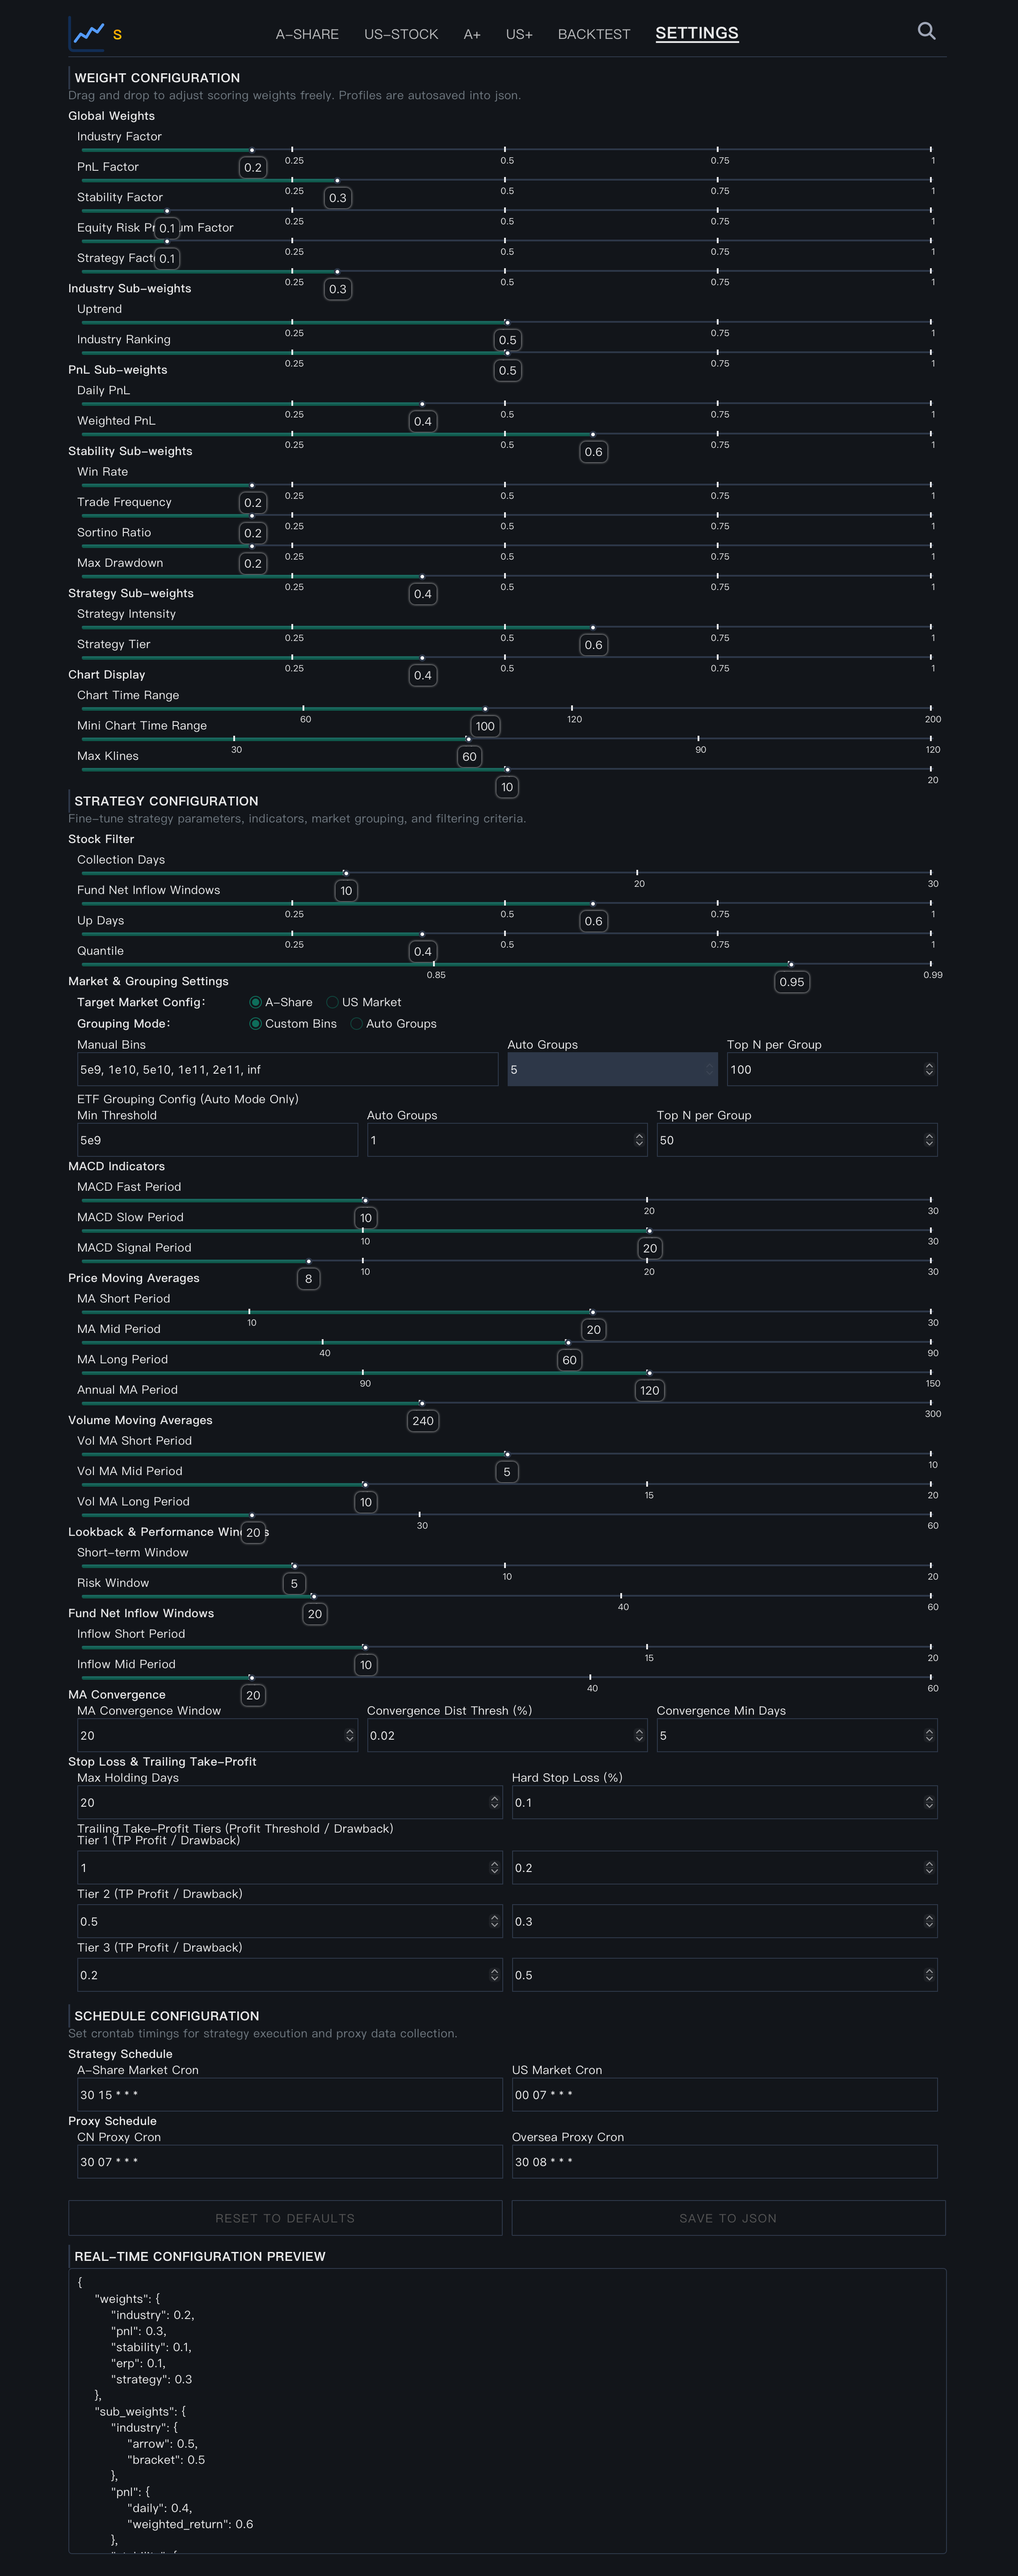
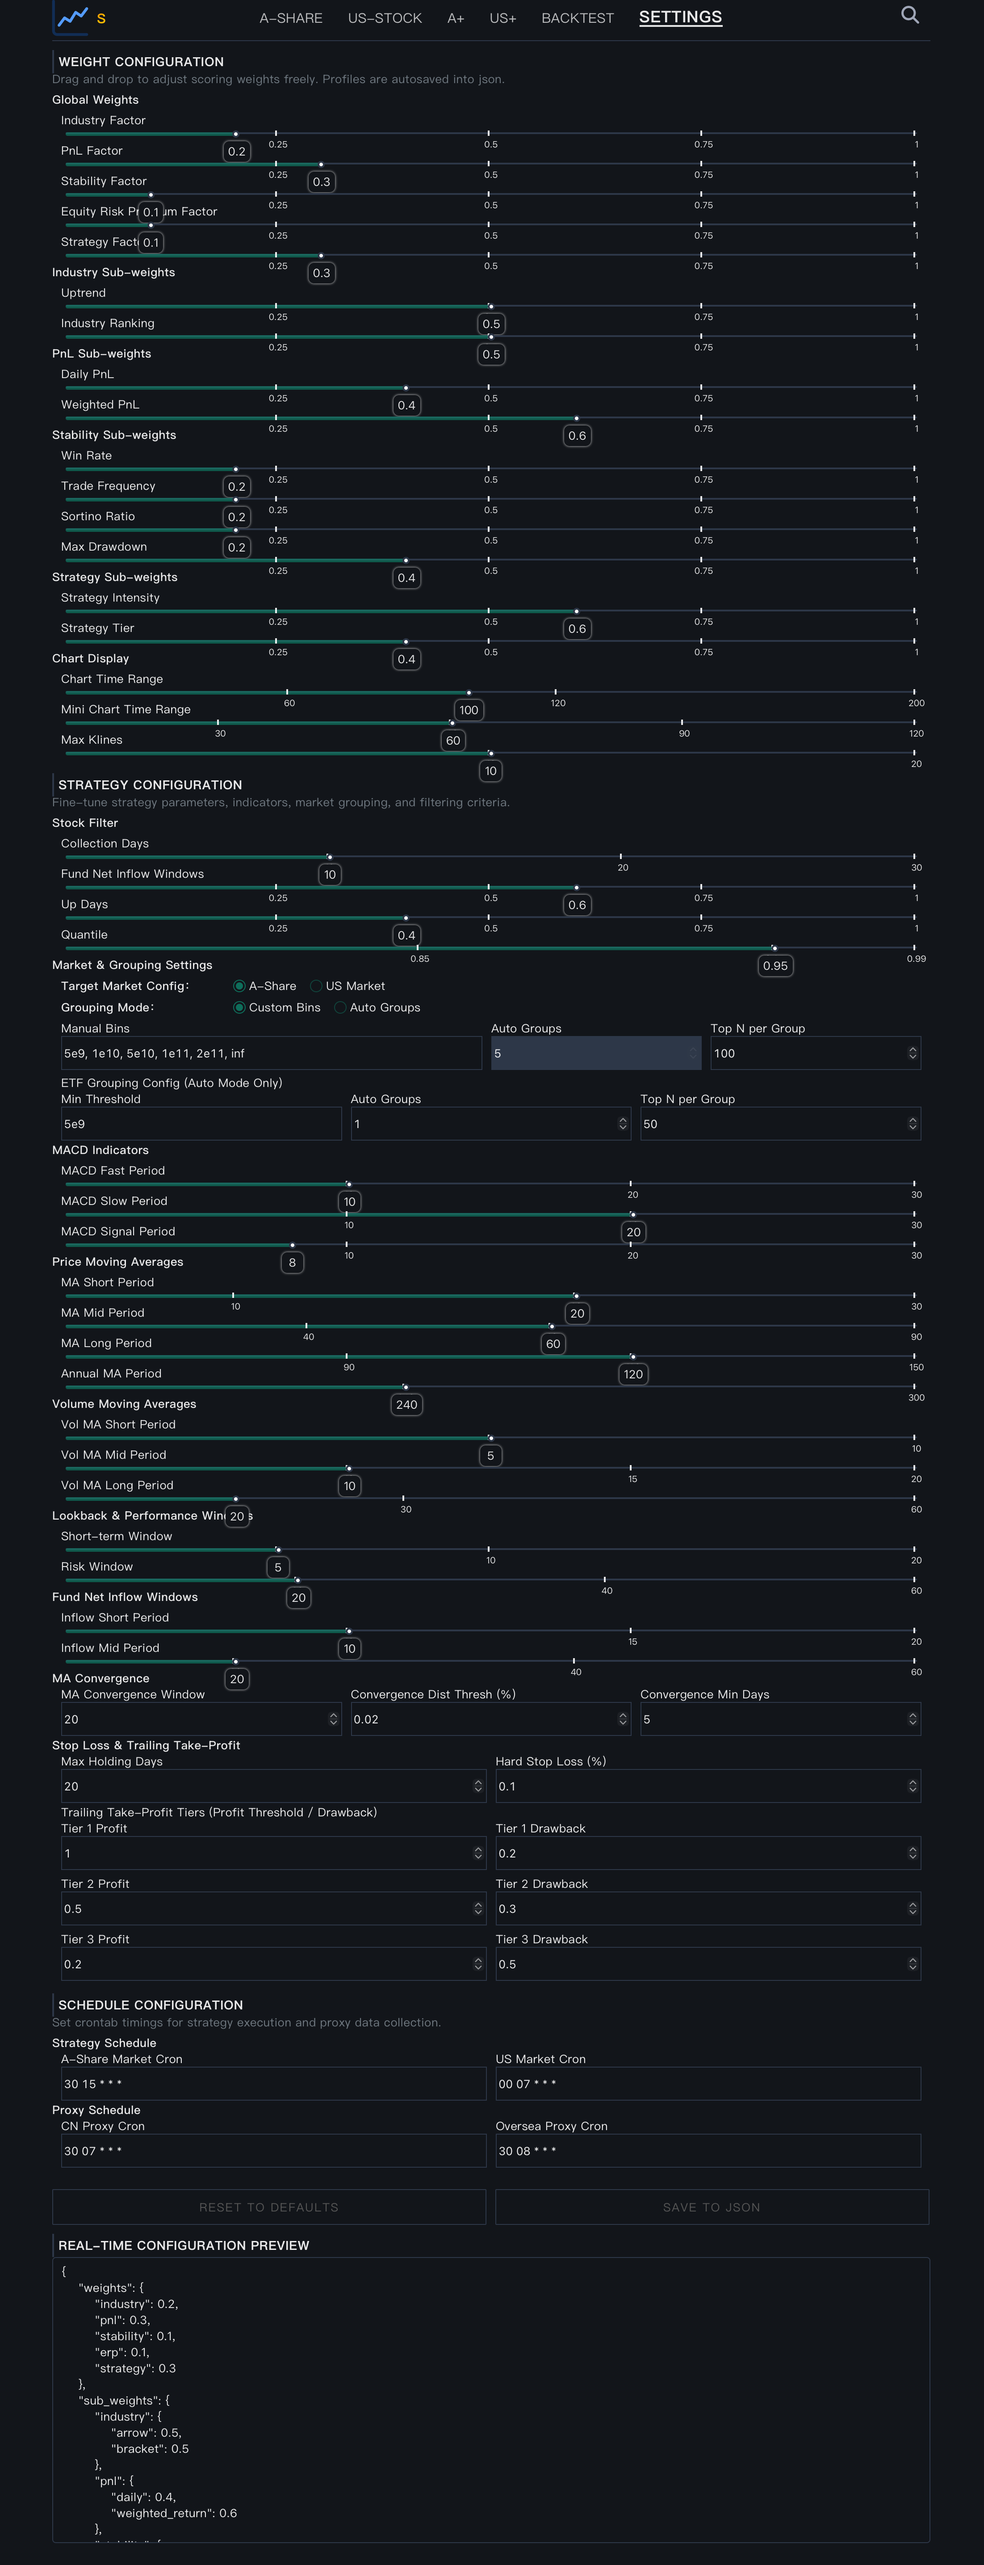
update

diff --git a/pub_finance/finance/dashreport/pages/settings.py b/pub_finance/finance/dashreport/pages/settings.py
@@ -781,7 +781,7 @@ def build_grouping_settings_card(cfg: dict) -> dbc.Card:
                             id="grp_top_n",
                             type="number",
                             min=1,
-                            max=100,
+                            max=500,
                             step=1,
                             value=grp_cfg.get("top_n_per_group", 10),
                             className="custom-grp-input",
@@ -846,7 +846,7 @@ def build_grouping_settings_card(cfg: dict) -> dbc.Card:
                                     id="etf_top_n",
                                     type="number",
                                     min=1,
-                                    max=200,
+                                    max=500,
                                     step=1,
                                     value=etf_cfg.get("top_n_per_group", 50),
                                     className="custom-grp-input",
@@ -996,7 +996,7 @@ def build_ma_convergence_card(cfg: dict) -> dbc.Card:
                         id="input_bt_ma_convergence_window",
                         type="number",
                         min=5,
-                        max=90,
+                        max=120,
                         step=1,
                         value=sqz_cfg.get("ma_convergence_window", 20),
                         className="custom-grp-input",
@@ -1114,7 +1114,7 @@ def build_exit_rules_card(cfg: dict) -> dbc.Card:
             ],
             className="grp-inputs-row mb-3",
         ),
-        # 2. 阶梯移动止盈 - 完全对齐上方 grp-inputs-row 结构，实现平分 50% 并排
+        # 2. 阶梯移动止盈 - 细化 Label，使 Profit 与 Drawback 分别对齐各自的输入框
         html.Div(
             [
                 html.Div(
@@ -1124,125 +1124,146 @@ def build_exit_rules_card(cfg: dict) -> dbc.Card:
                 # Tier 1
                 html.Div(
                     [
-                        html.Label(
-                            "Tier 1 (TP Profit / Drawback)",
-                            className="mb-1 l2_label text-truncate w-100",
+                        html.Div(
+                            [
+                                html.Label(
+                                    "Tier 1 Profit",
+                                    className="mb-1 l2_label text-truncate",
+                                ),
+                                dbc.Input(
+                                    id="input_bt_trailing_tp_tier_1_threshold",
+                                    type="number",
+                                    value=exit_cfg.get(
+                                        "trailing_tp_tier_1_threshold", 1.0
+                                    ),
+                                    min=0,
+                                    max=5,
+                                    step=0.05,
+                                    placeholder="Profit",
+                                    className="custom-grp-input",
+                                ),
+                            ],
+                            style={"flex": "1"},
                         ),
                         html.Div(
                             [
-                                html.Div(
-                                    dbc.Input(
-                                        id="input_bt_trailing_tp_tier_1_threshold",
-                                        type="number",
-                                        value=exit_cfg.get(
-                                            "trailing_tp_tier_1_threshold", 1.0
-                                        ),
-                                        step=0.05,
-                                        placeholder="Profit",
-                                        className="custom-grp-input",
-                                    ),
-                                    style={"flex": "1"},
+                                html.Label(
+                                    "Tier 1 Drawback",
+                                    className="mb-1 l2_label text-truncate",
                                 ),
-                                html.Div(
-                                    dbc.Input(
-                                        id="input_bt_trailing_tp_tier_1_drawback",
-                                        type="number",
-                                        value=exit_cfg.get(
-                                            "trailing_tp_tier_1_drawback", 0.2
-                                        ),
-                                        step=0.05,
-                                        placeholder="Drawback",
-                                        className="custom-grp-input",
+                                dbc.Input(
+                                    id="input_bt_trailing_tp_tier_1_drawback",
+                                    type="number",
+                                    value=exit_cfg.get(
+                                        "trailing_tp_tier_1_drawback", 0.2
                                     ),
-                                    style={"flex": "1"},
+                                    min=0,
+                                    max=1,
+                                    step=0.05,
+                                    placeholder="Drawback",
+                                    className="custom-grp-input",
                                 ),
                             ],
-                            className="grp-inputs-row",
+                            style={"flex": "1"},
                         ),
                     ],
-                    className="mb-3",
+                    className="grp-inputs-row mb-3",
                 ),
                 # Tier 2
                 html.Div(
                     [
-                        html.Label(
-                            "Tier 2 (TP Profit / Drawback)",
-                            className="mb-1 l2_label text-truncate w-100",
+                        html.Div(
+                            [
+                                html.Label(
+                                    "Tier 2 Profit",
+                                    className="mb-1 l2_label text-truncate",
+                                ),
+                                dbc.Input(
+                                    id="input_bt_trailing_tp_tier_2_threshold",
+                                    type="number",
+                                    value=exit_cfg.get(
+                                        "trailing_tp_tier_2_threshold", 0.5
+                                    ),
+                                    min=0,
+                                    max=5,
+                                    step=0.05,
+                                    placeholder="Profit",
+                                    className="custom-grp-input",
+                                ),
+                            ],
+                            style={"flex": "1"},
                         ),
                         html.Div(
                             [
-                                html.Div(
-                                    dbc.Input(
-                                        id="input_bt_trailing_tp_tier_2_threshold",
-                                        type="number",
-                                        value=exit_cfg.get(
-                                            "trailing_tp_tier_2_threshold", 0.5
-                                        ),
-                                        step=0.05,
-                                        placeholder="Profit",
-                                        className="custom-grp-input",
-                                    ),
-                                    style={"flex": "1"},
+                                html.Label(
+                                    "Tier 2 Drawback",
+                                    className="mb-1 l2_label text-truncate",
                                 ),
-                                html.Div(
-                                    dbc.Input(
-                                        id="input_bt_trailing_tp_tier_2_drawback",
-                                        type="number",
-                                        value=exit_cfg.get(
-                                            "trailing_tp_tier_2_drawback", 0.3
-                                        ),
-                                        step=0.05,
-                                        placeholder="Drawback",
-                                        className="custom-grp-input",
+                                dbc.Input(
+                                    id="input_bt_trailing_tp_tier_2_drawback",
+                                    type="number",
+                                    value=exit_cfg.get(
+                                        "trailing_tp_tier_2_drawback", 0.3
                                     ),
-                                    style={"flex": "1"},
+                                    min=0,
+                                    max=1,
+                                    step=0.05,
+                                    placeholder="Drawback",
+                                    className="custom-grp-input",
                                 ),
                             ],
-                            className="grp-inputs-row",
+                            style={"flex": "1"},
                         ),
                     ],
-                    className="mb-3",
+                    className="grp-inputs-row mb-3",
                 ),
                 # Tier 3
                 html.Div(
                     [
-                        html.Label(
-                            "Tier 3 (TP Profit / Drawback)",
-                            className="mb-1 l2_label text-truncate w-100",
+                        html.Div(
+                            [
+                                html.Label(
+                                    "Tier 3 Profit",
+                                    className="mb-1 l2_label text-truncate",
+                                ),
+                                dbc.Input(
+                                    id="input_bt_trailing_tp_tier_3_threshold",
+                                    type="number",
+                                    value=exit_cfg.get(
+                                        "trailing_tp_tier_3_threshold", 0.2
+                                    ),
+                                    min=0,
+                                    max=5,
+                                    step=0.05,
+                                    placeholder="Profit",
+                                    className="custom-grp-input",
+                                ),
+                            ],
+                            style={"flex": "1"},
                         ),
                         html.Div(
                             [
-                                html.Div(
-                                    dbc.Input(
-                                        id="input_bt_trailing_tp_tier_3_threshold",
-                                        type="number",
-                                        value=exit_cfg.get(
-                                            "trailing_tp_tier_3_threshold", 0.2
-                                        ),
-                                        step=0.05,
-                                        placeholder="Profit",
-                                        className="custom-grp-input",
-                                    ),
-                                    style={"flex": "1"},
+                                html.Label(
+                                    "Tier 3 Drawback",
+                                    className="mb-1 l2_label text-truncate",
                                 ),
-                                html.Div(
-                                    dbc.Input(
-                                        id="input_bt_trailing_tp_tier_3_drawback",
-                                        type="number",
-                                        value=exit_cfg.get(
-                                            "trailing_tp_tier_3_drawback", 0.5
-                                        ),
-                                        step=0.05,
-                                        placeholder="Drawback",
-                                        className="custom-grp-input",
+                                dbc.Input(
+                                    id="input_bt_trailing_tp_tier_3_drawback",
+                                    type="number",
+                                    value=exit_cfg.get(
+                                        "trailing_tp_tier_3_drawback", 0.5
                                     ),
-                                    style={"flex": "1"},
+                                    min=0,
+                                    max=1,
+                                    step=0.05,
+                                    placeholder="Drawback",
+                                    className="custom-grp-input",
                                 ),
                             ],
-                            className="grp-inputs-row",
+                            style={"flex": "1"},
                         ),
                     ],
-                    className="mb-2",
+                    className="grp-inputs-row mb-2",
                 ),
             ]
         ),
